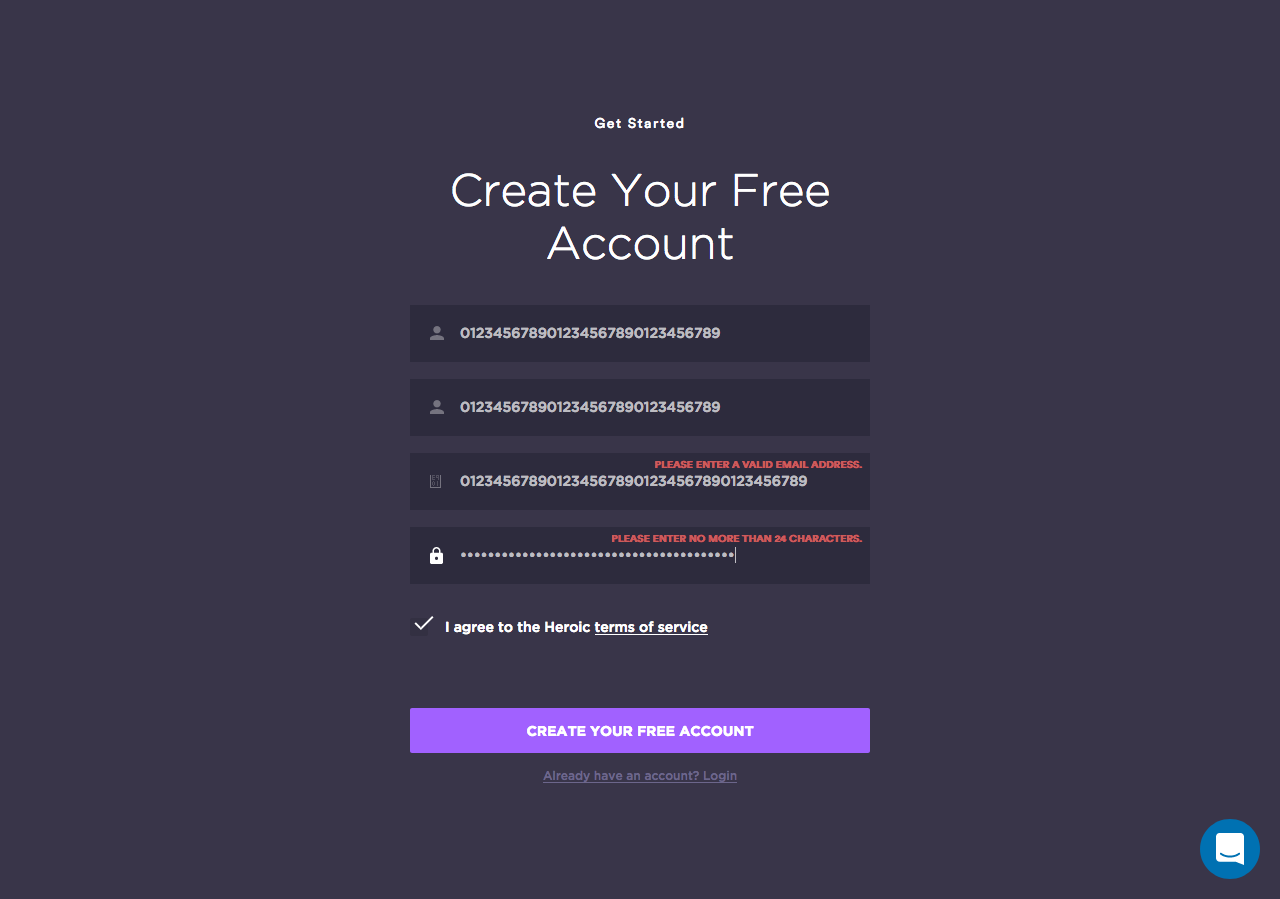
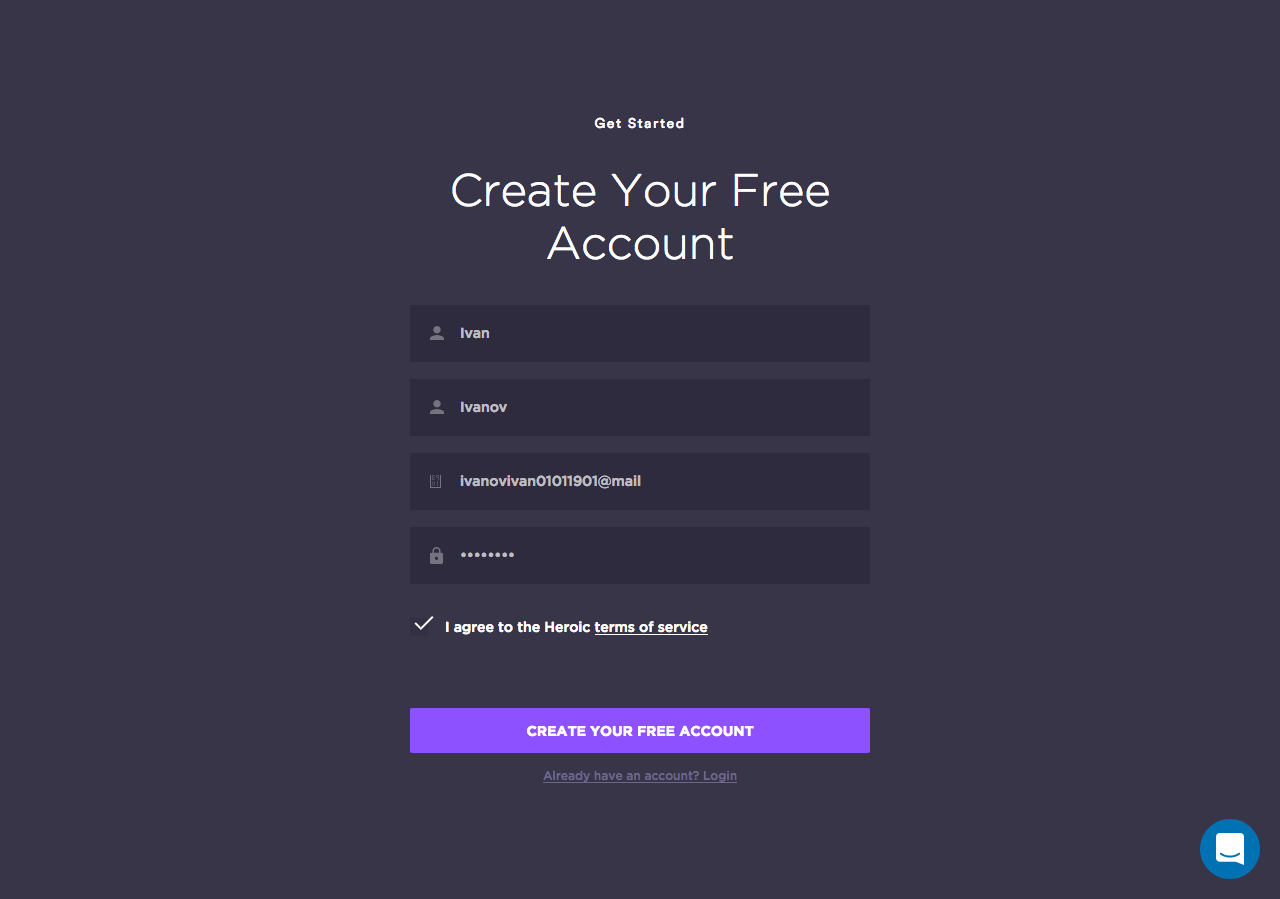
Init

diff --git a/test/heroic.js b/test/heroic.js
@@ -1,29 +1,41 @@
 var assert = require('assert');
 
 describe('register form', function() {
-    it('should not be messages on the screen, input of correct values', function () {
+    
+    it('input of correct values', function () {
         browser.url('https://heroicnow.com/step1.php?id=1&site=46');
         browser.setValue('input[name="firstname"]','Ivan');
         browser.setValue('input[name="lastname"]','Ivanov');
         browser.setValue('input[name="email"]','ivanovivan01011901@mail.ru');
         browser.setValue('input[name="password"]','01011901');
         browser.click('label');
-        browser.click('#submit');
-        browser.saveScreenshot('1.png');
+        browser.click('#submit')
+        assert.equal('','','should not be messages on the screen',(browser.saveScreenshot('1.png'))); 
     });   
 
-    it('should be messages on the screen, input without a tick', function () {
+    it('input of English letters', function () {
         browser.url('https://heroicnow.com/step1.php?id=1&site=46');
         browser.setValue('input[name="firstname"]','Ivan');
         browser.setValue('input[name="lastname"]','Ivanov');
         browser.setValue('input[name="email"]','ivanovivan01011901@mail.ru');
-        browser.setValue('input[name="password"]','01011901');
+        browser.setValue('input[name="password"]','abcdefgh');
+        browser.click('label');
         browser.click('#submit');
-        browser.saveScreenshot('2.png');
+        assert.equal('','','should not be messages on the screen',(browser.saveScreenshot('2.png')));
     });
 
+    it('input of characters more than 30 in the firstname and lastname, than 24 in the password', function () {
+        browser.url('https://heroicnow.com/step1.php?id=1&site=46');
+        browser.setValue('input[name="firstname"]','0123456789012345678901234567890123456789');
+        browser.setValue('input[name="lastname"]','0123456789012345678901234567890123456789');
+        browser.setValue('input[name="email"]','ivanovivan01011901@mail.ru');
+        browser.setValue('input[name="password"]','0123456789012345678901234567890123456789');
+        browser.click('label');
+        browser.click('#submit');
+        assert.equal('.error-message','.error-message','should not be messages on the screen',(browser.saveScreenshot('3.png')));
+    });
 
-    it('should be messages on the screen, input of null values', function () {
+    it('input of null values', function () {
         browser.url('https://heroicnow.com/step1.php?id=1&site=46');
         browser.setValue('input[name="firstname"]','');
         browser.setValue('input[name="lastname"]','');
@@ -31,90 +43,64 @@ describe('register form', function() {
         browser.setValue('input[name="password"]','');
         browser.click('label');
         browser.click('#submit');
-        browser.saveScreenshot('3.png');
+        assert.equal('.error-message','.error-message','should be messages on the screen',(browser.saveScreenshot('4.png'))); 
     }); 
 
-
-    it('should be messages on the screen, input of spaces in the firstname and lastname fields', function () {
+    it('input without a tick', function () {
         browser.url('https://heroicnow.com/step1.php?id=1&site=46');
-        browser.setValue('input[name="firstname"]',' ');
-        browser.setValue('input[name="lastname"]',' ');
+        browser.setValue('input[name="firstname"]','Ivan');
+        browser.setValue('input[name="lastname"]','Ivanov');
+        browser.setValue('input[name="email"]','ivanovivan01011901@mail.ru');
+        browser.setValue('input[name="password"]','01011901');
+        browser.click('#submit');
+        assert.equal('.error-message','.error-message','should be messages on the screen',(browser.saveScreenshot('12.png'))); 
+    });
+
+    it('input of spaces in the firstname and lastname fields', function () {
+        browser.url('https://heroicnow.com/step1.php?id=1&site=46');
+        browser.setValue('input[name="firstname"]','  ');
+        browser.setValue('input[name="lastname"]','  ');
         browser.setValue('input[name="email"]','ivanovivan01011901@mail.ru');
         browser.setValue('input[name="password"]','12345678');
         browser.click('label');
         browser.click('#submit');
-        browser.saveScreenshot('4.png');
-    }); 
+        assert.equal('','.error-message','should be messages on the screen',(browser.saveScreenshot('5.png'))); 
+    });
 
-    it('should be messages on the screen, input of digits in the firstname and lastname fields', function () {
+    it('input of digits in the firstname and lastname fields', function () {
         browser.url('https://heroicnow.com/step1.php?id=1&site=46');
-        browser.setValue('input[name="firstname"]','1');
-        browser.setValue('input[name="lastname"]','1');
+        browser.setValue('input[name="firstname"]','12345');
+        browser.setValue('input[name="lastname"]','12345');
         browser.setValue('input[name="email"]','ivanovivan01011901@mail.ru');
         browser.setValue('input[name="password"]','12345678');
         browser.click('label');
         browser.click('#submit');
-        browser.saveScreenshot('5.png');
-    }); 
+        assert.equal('','.error-message','should be messages on the screen',(browser.saveScreenshot('6.png')));
+   });
 
-    it('should be messages on the screen, input of Russian letters', function () {
+    it('input of characters', function () {
         browser.url('https://heroicnow.com/step1.php?id=1&site=46');
-        browser.setValue('input[name="firstname"]','а');
-        browser.setValue('input[name="lastname"]','а');
-        browser.setValue('input[name="email"]','а');
-        browser.setValue('input[name="password"]','а');
+        browser.setValue('input[name="firstname"]','/////');
+        browser.setValue('input[name="lastname"]','//////');
+        browser.setValue('input[name="email"]','ivanovivan01011901@mail.ru');
+        browser.setValue('input[name="password"]','/////////');
         browser.click('label');
         browser.click('#submit');
-        browser.saveScreenshot('6.png');
+        assert.equal('','.error-message','should be messages on the screen',(browser.saveScreenshot('7.png')));
     });
 
-
-    it('should be messages on the screen, input of English letters', function () {
+    it('input one character in the firstname and lastname', function () {
         browser.url('https://heroicnow.com/step1.php?id=1&site=46');
-        browser.setValue('input[name="firstname"]','b');
-        browser.setValue('input[name="lastname"]','b');
-        browser.setValue('input[name="email"]','b');
-        browser.setValue('input[name="password"]','b');
+        browser.setValue('input[name="firstname"]','a');
+        browser.setValue('input[name="lastname"]','a');
+        browser.setValue('input[name="email"]','ivanovivan01011901@mail.ru');
+        browser.setValue('input[name="password"]','123456');
         browser.click('label');
         browser.click('#submit');
-        browser.saveScreenshot('7.png');
+        assert.equal('','.error-message','should be messages on the screen',(browser.saveScreenshot('8.png')));
     });
 
-
-    it('should be messages on the screen, input of characters', function () {
-        browser.url('https://heroicnow.com/step1.php?id=1&site=46');
-        browser.setValue('input[name="firstname"]','/');
-        browser.setValue('input[name="lastname"]','/');
-        browser.setValue('input[name="email"]','/');
-        browser.setValue('input[name="password"]','/');
-        browser.click('label');
-        browser.click('#submit');
-        browser.saveScreenshot('8.png');
-    });
-
-    it('should be messages on the screen, input of characters more than 30 in the firstname and lastname, than 24 in the password', function () {
-        browser.url('https://heroicnow.com/step1.php?id=1&site=46');
-        browser.setValue('input[name="firstname"]','0123456789012345678901234567890123456789');
-        browser.setValue('input[name="lastname"]','0123456789012345678901234567890123456789');
-        browser.setValue('input[name="email"]','0123456789012345678901234567890123456789');
-        browser.setValue('input[name="password"]','0123456789012345678901234567890123456789');
-        browser.click('label');
-        browser.click('#submit');
-        browser.saveScreenshot('9.png');
-    });
-
-    it('should be messages on the screen, input of 4 characters in the password', function () {
-        browser.url('https://heroicnow.com/step1.php?id=1&site=46');
-        browser.setValue('input[name="firstname"]','0123');
-        browser.setValue('input[name="lastname"]','0123');
-        browser.setValue('input[name="email"]','0123');
-        browser.setValue('input[name="password"]','0123');
-        browser.click('label');
-        browser.click('#submit');
-        browser.saveScreenshot('10.png');
-    });
-
-    it('should be messages on the screen, input adress without .ru', function () {
+    it('input adress without .ru', function () {
         browser.url('https://heroicnow.com/step1.php?id=1&site=46');
         browser.setValue('input[name="firstname"]','Ivan');
         browser.setValue('input[name="lastname"]','Ivanov');
@@ -122,12 +108,30 @@ describe('register form', function() {
         browser.setValue('input[name="password"]','01011901');
         browser.click('label');
         browser.click('#submit');
-        browser.saveScreenshot('11.png');
+        assert.equal('','.error-message','should be messages on the screen',(browser.saveScreenshot('9.png')));
     });
 
-
-
-
-
-
+    it('input of Russian letters in the password', function () {
+        browser.url('https://heroicnow.com/step1.php?id=1&site=46');
+        browser.setValue('input[name="firstname"]','Иван');
+        browser.setValue('input[name="lastname"]','Иванов');
+        browser.setValue('input[name="email"]','ivanovivan01011901@mail');
+        browser.setValue('input[name="password"]','абвгдеж');
+        browser.click('label');
+        browser.click('#submit');
+        assert.equal('','.error-message','should be messages on the screen',(browser.saveScreenshot('10.png')));
     });
+
+    it('input of 4 characters in the password', function () {
+        browser.url('https://heroicnow.com/step1.php?id=1&site=46');
+        browser.setValue('input[name="firstname"]','Ivan');
+        browser.setValue('input[name="lastname"]','Ivanov');
+        browser.setValue('input[name="email"]','ivanovivan01011901@mail');
+        browser.setValue('input[name="password"]','1234');
+        browser.click('label');
+        browser.click('#submit');
+        assert.equal('','.error-message','should be messages on the screen',(browser.saveScreenshot('11.png')));
+    });
+    });  
+
+       
